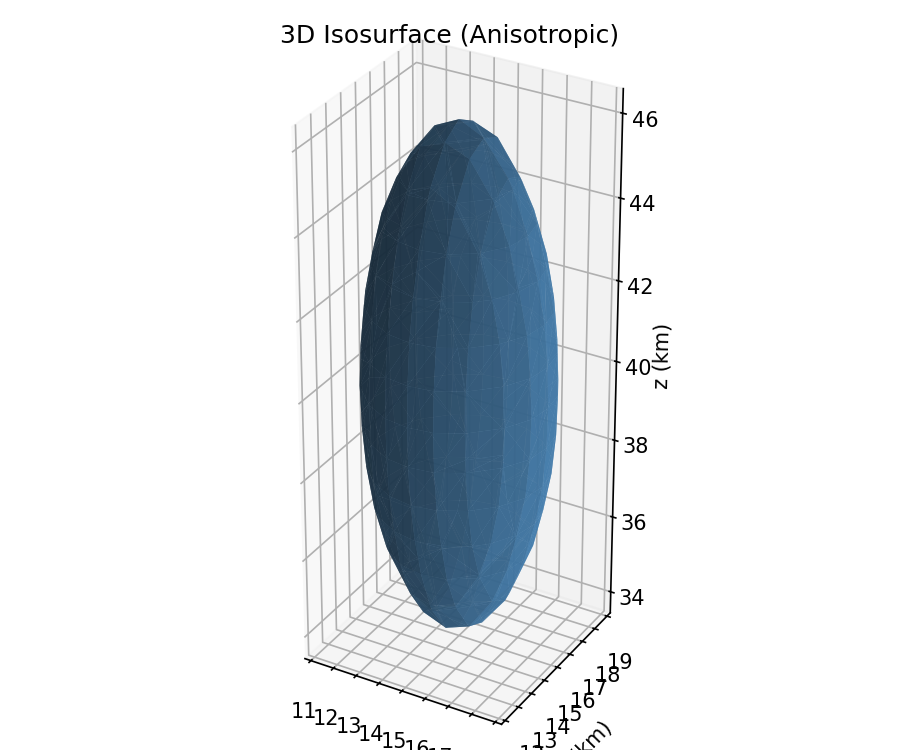
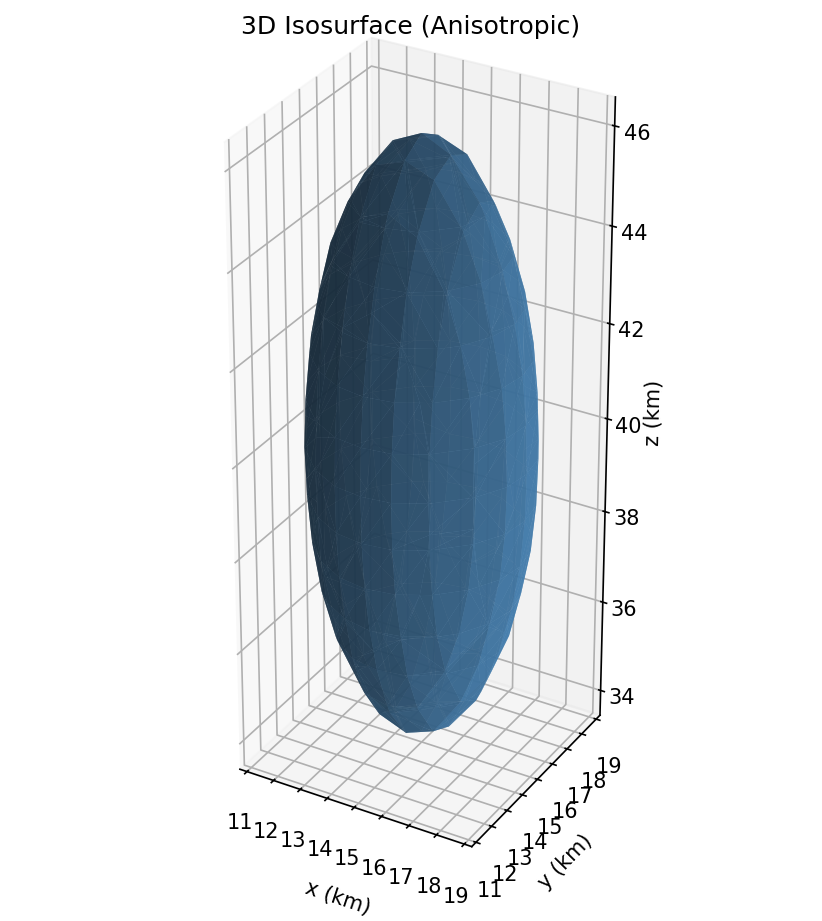
Finishing touches for graphs

Changed region(s): [[0.2737, 0.0, 0.8212, 1.0]]

diff --git a/main.py b/main.py
@@ -92,7 +92,7 @@ def run_3d_demo(out_dir: Path) -> None:
     # 3D isosurface visualization for anisotropic cloud
     iso_level = float(n_aniso.max() * 0.2)
     verts, faces, _, _ = marching_cubes(n_aniso, level=iso_level, spacing=(dx, dx, dx))
-    fig = plt.figure(figsize=(6, 5))
+    fig = plt.figure(figsize=(7, 6))
     ax = fig.add_subplot(111, projection="3d")
     ax.plot_trisurf(
         verts[:, 0],
@@ -103,13 +103,13 @@ def run_3d_demo(out_dir: Path) -> None:
         alpha=0.8,
         color="steelblue",
     )
-    ax.set_title("3D Isosurface (Anisotropic)")
+    ax.set_title("3D Isosurface (Anisotropic)", pad=12)
     ax.set_xlabel("x (km)")
     ax.set_ylabel("y (km)")
     ax.set_zlabel("z (km)")
     ax.set_box_aspect((nx, ny, nz))
-    plt.tight_layout()
-    plt.savefig(out_dir / "diffusion_3d_isosurface.png", dpi=150)
+    fig.subplots_adjust(left=0.02, right=0.98, bottom=0.02, top=0.90)
+    plt.savefig(out_dir / "diffusion_3d_isosurface.png", dpi=150, bbox_inches="tight", pad_inches=0.1)
     plt.close(fig)
 
     x = (np.arange(nx) - nx // 2) * dx
